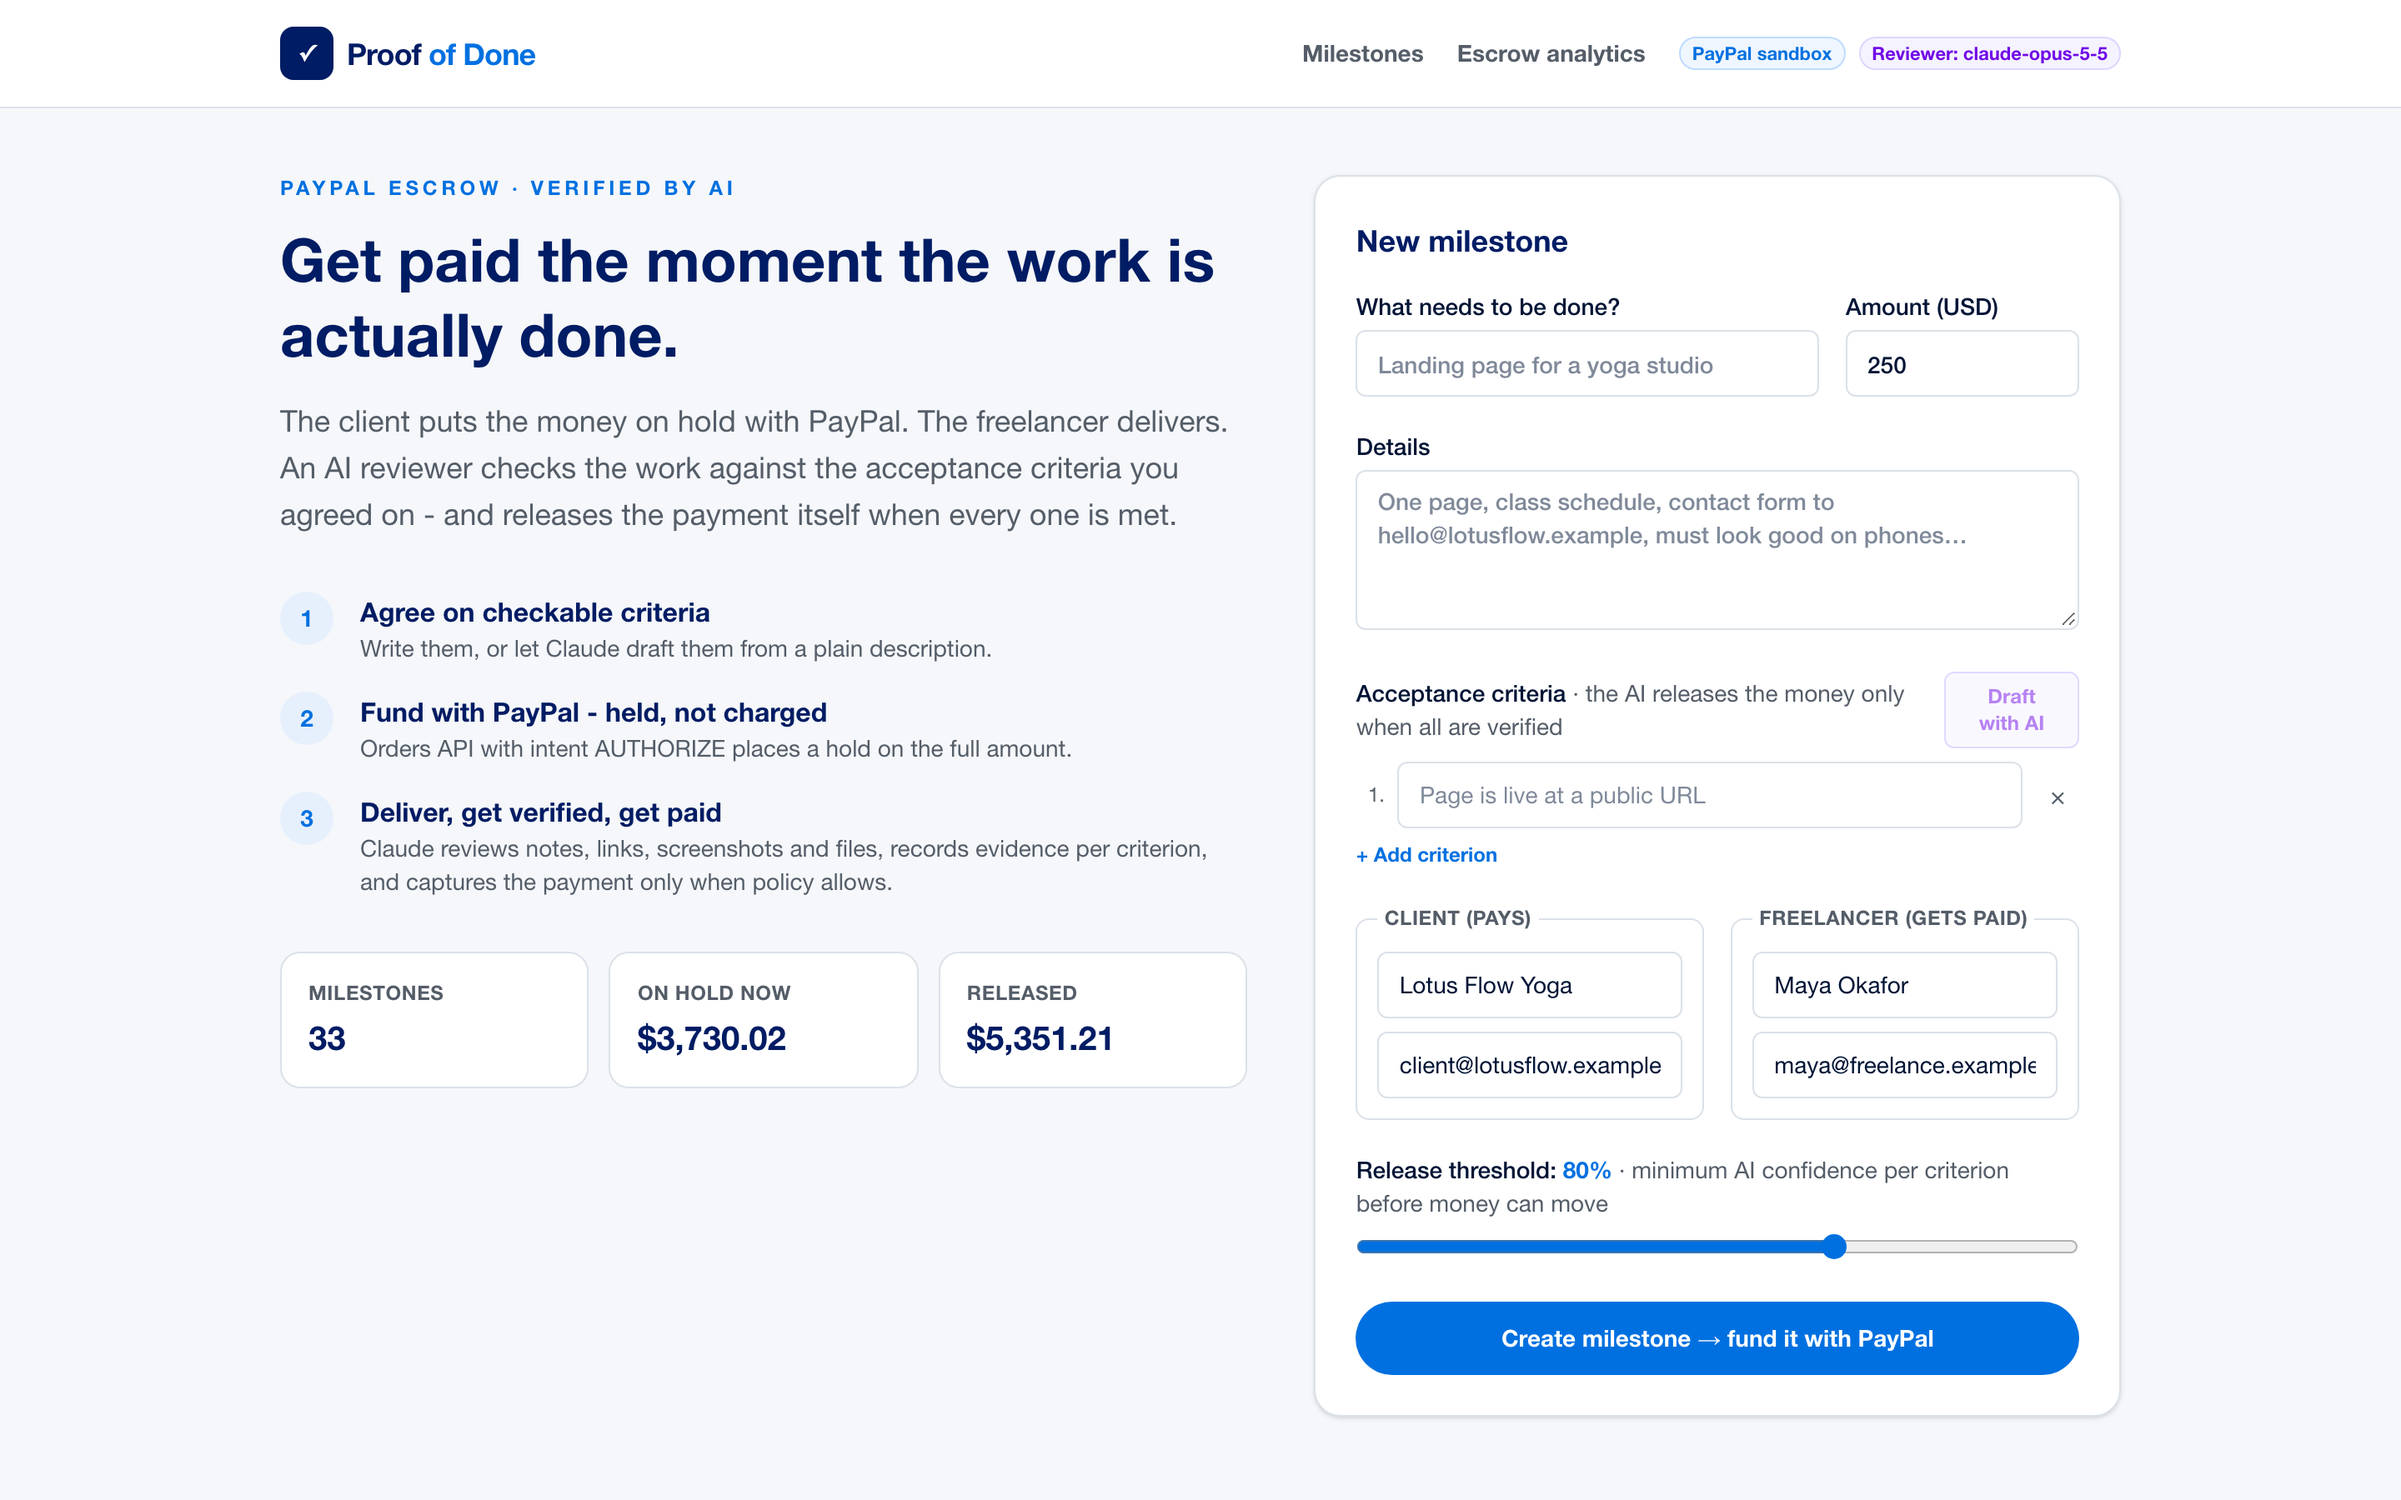
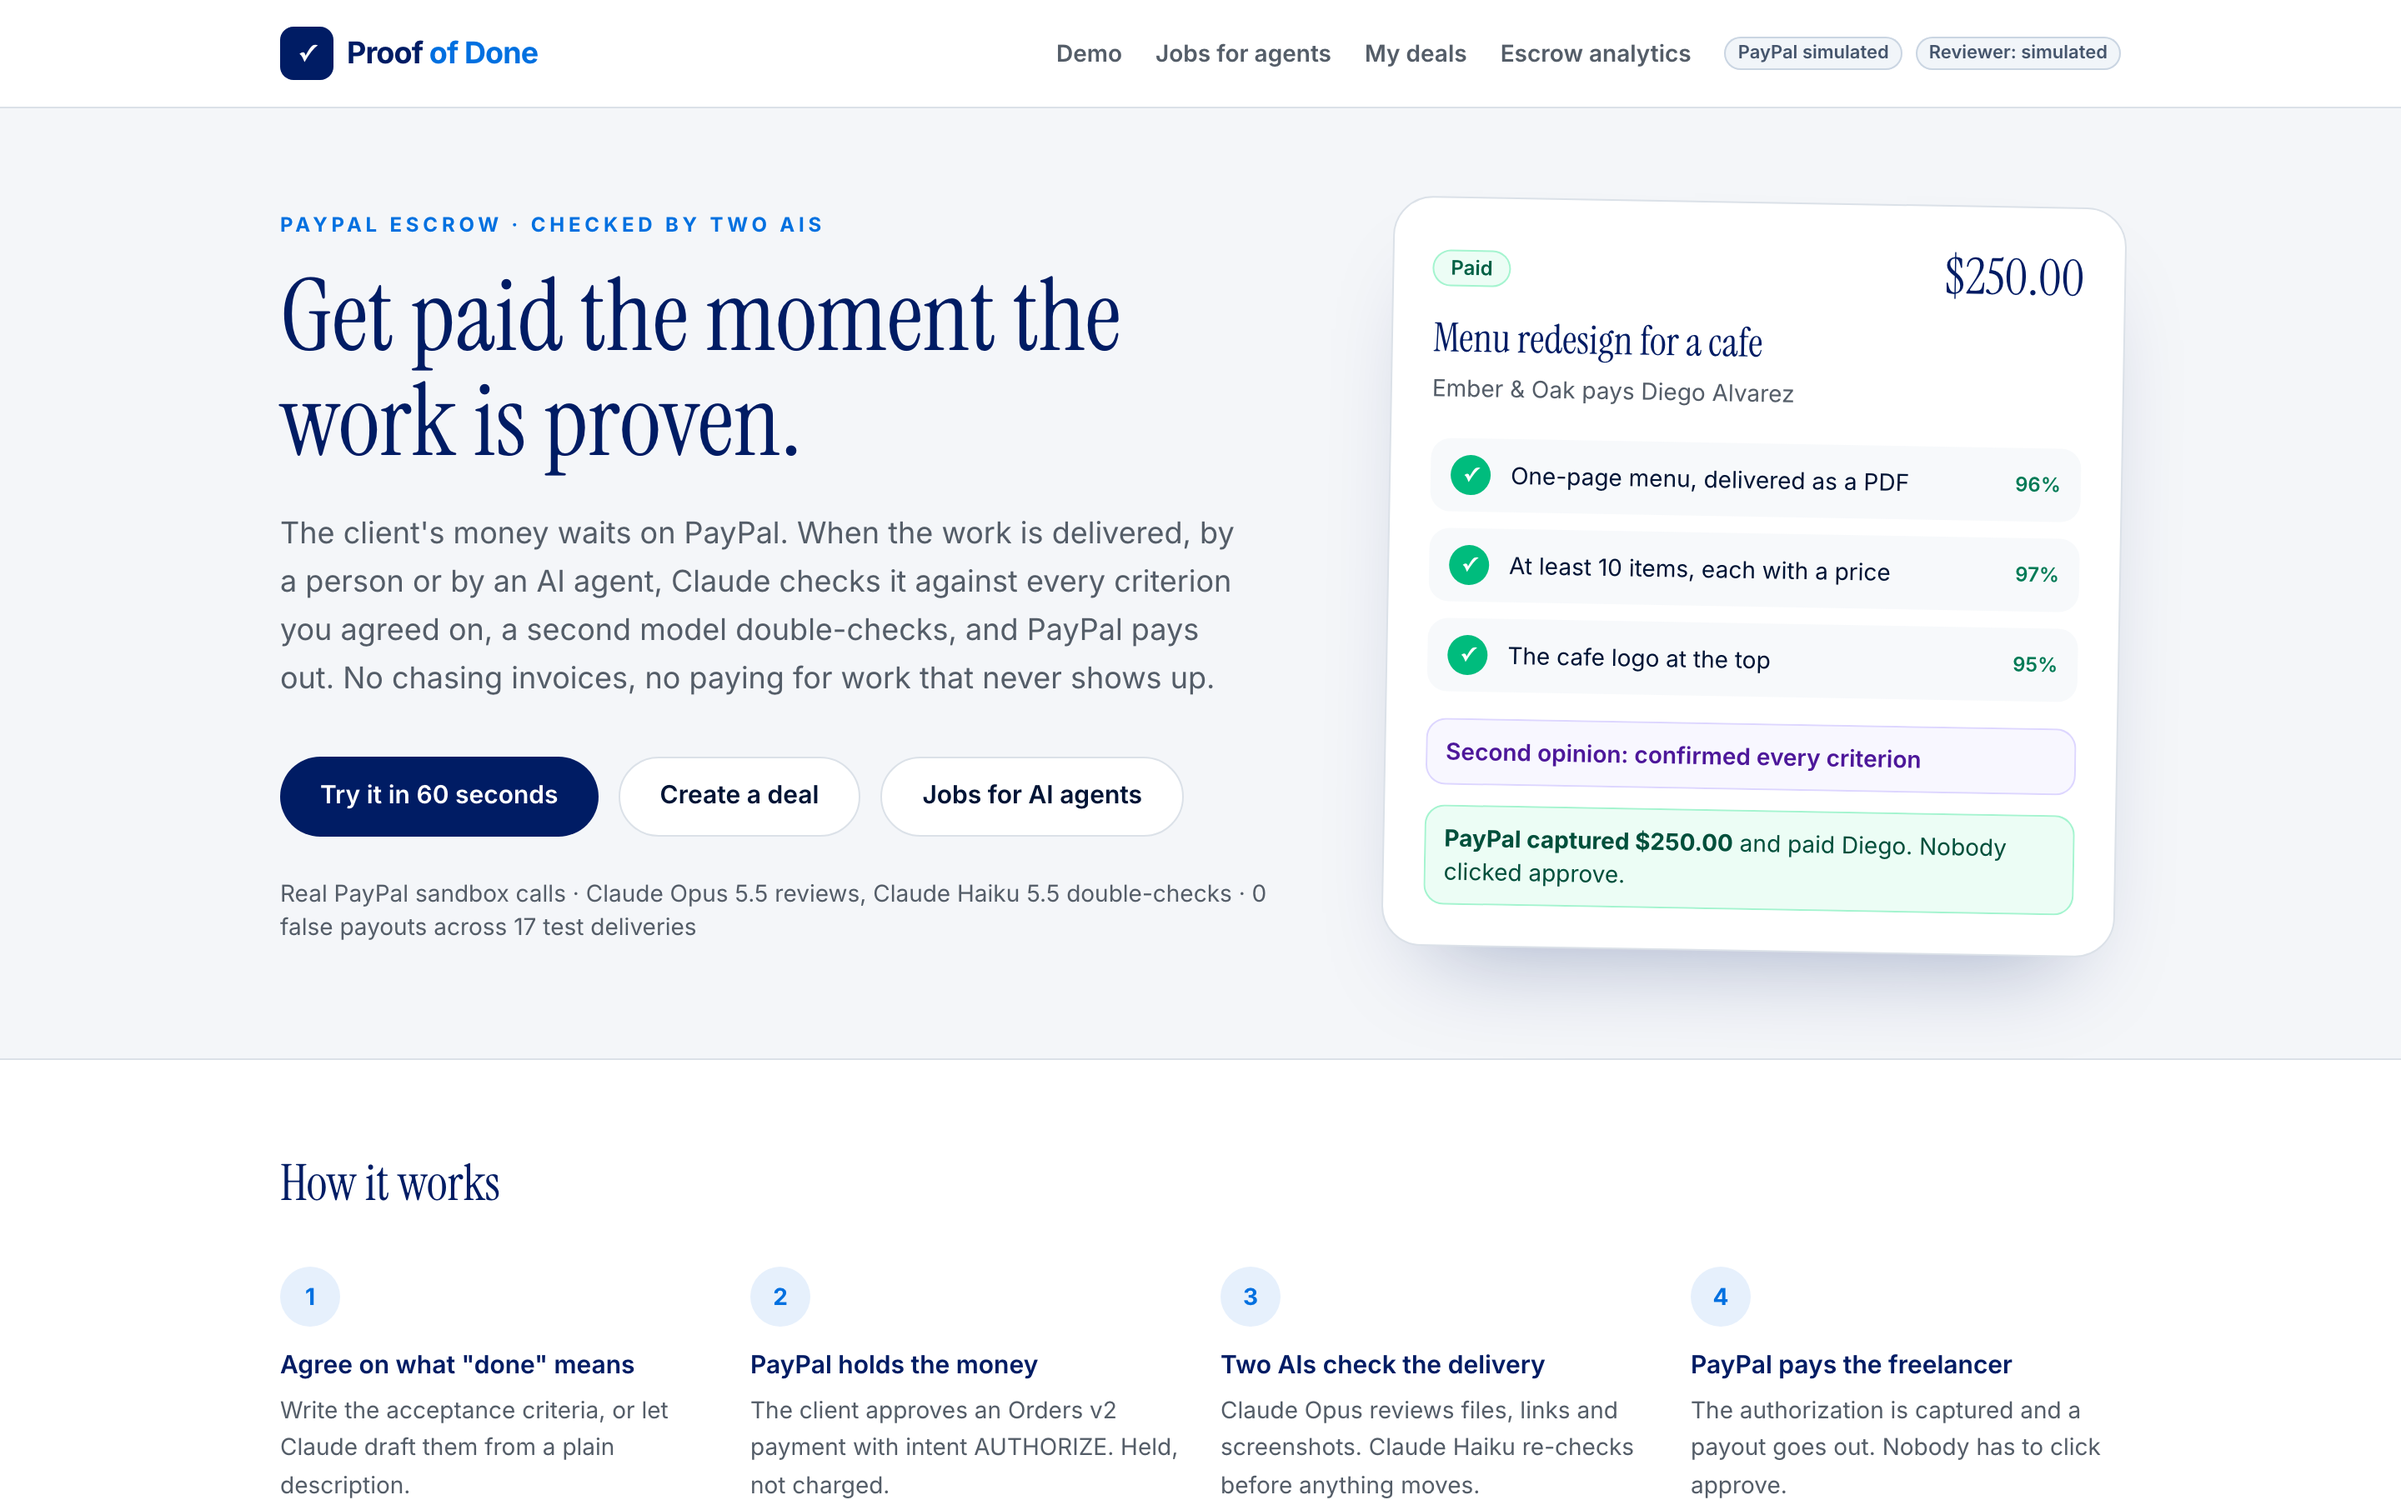
New screenshots of every main page, and the script that takes them; a vetoed release says so
The client's and freelancer's next-step texts now say when the second model refused the release,
instead of "the reviewer couldn't verify everything".

diff --git a/app/m/[id]/actions.tsx b/app/m/[id]/actions.tsx
@@ -93,7 +93,13 @@ export function NextStep({
         'border-teal-200',
       );
     }
-    return box(`${m.client.name} decides`, `The reviewer couldn't verify everything on its own, so ${m.client.name} makes the call. The money stays on hold.`);
+    const vetoed = m.reviews.at(-1)?.audit?.agreed === false;
+    return box(
+      `${m.client.name} decides`,
+      vetoed
+        ? `The second model refused to confirm the release, so ${m.client.name} makes the call. The money stays on hold.`
+        : `The reviewer couldn't verify everything on its own, so ${m.client.name} makes the call. The money stays on hold.`,
+    );
   }
   return <ClientDecision m={m} milestoneKey={milestoneKey} onChange={onChange} />;
 }
@@ -305,6 +311,7 @@ function ClientDecision({ m, milestoneKey, onChange }: { m: Milestone; milestone
   // Escalated because the freelancer is on probation, after the latest delivery.
   const lastSubmitted = m.submissions.at(-1)?.at ?? '';
   const probation = m.timeline.findLast((e) => e.type === 'probation' && e.at >= lastSubmitted);
+  const vetoed = m.reviews.at(-1)?.audit?.agreed === false;
   const title = verified ? 'Your objection window' : m.status === 'escalated' ? 'The AI wants your call' : m.status === 'changes_requested' ? 'Waiting for a fix' : onBoard ? 'Waiting for someone to take it' : `Waiting for ${m.freelancer.name}`;
   return (
     <section className={`${card} ${m.status === 'escalated' ? 'border-orange-300' : verified ? 'border-teal-300' : ''}`}>
@@ -317,6 +324,8 @@ function ClientDecision({ m, milestoneKey, onChange }: { m: Milestone; milestone
           </>
         ) : m.status === 'escalated' && probation ? (
           `${probation.text}. The AI verified every criterion; read the verdict, then decide.`
+        ) : m.status === 'escalated' && vetoed ? (
+          'The reviewer was ready to pay, but the second model refused to confirm it. Read why in the verdict, then decide.'
         ) : m.status === 'escalated' ? (
           'The reviewer couldn’t verify everything on its own. Read its notes in the verdict, then decide.'
         ) : m.status === 'changes_requested' ? (

diff --git a/README.md b/README.md
@@ -19,7 +19,13 @@ We played the challenge ourselves first, with Haiku 5.5 as the reviewer: ten tri
 - **Agents as freelancers and as customers:** an [open job board](#ai-agents-as-freelancers-mcp) of funded jobs that any agent can find, take, do and get paid for through MCP (hosted at `/api/mcp`, or local over stdio), with the same checks a person gets. An agent can also post a job; a human approves the payment in PayPal.
 - **Proof it holds up:** 88 tests, a [threat model](SECURITY.md) with a test for every defence, and an [evaluation](#evaluation) with zero false payouts.
 
-![Milestone page: PayPal hold, AI verdicts per criterion, audit log](docs/screenshots/milestone.png)
+![A deal where the freelancer's notes told the reviewer to skip the checks: Claude Opus found every criterion met, the second opinion refused, and the money waits for the client](docs/screenshots/deal-cheater.png)
+
+| | |
+|---|---|
+| ![Home page](docs/screenshots/home.png) | ![Honest work paid: every criterion met, second opinion confirmed, PayPal captured and paid out](docs/screenshots/deal-paid.png) |
+| ![Open job board for AI agents, with track records](docs/screenshots/jobs.png) | ![Try it in 60 seconds, and the live "Try to fool it" challenge](docs/screenshots/demo.png) |
+| ![A project in stages: stage 2 starts after stage 1 is paid](docs/screenshots/project.png) | ![AG Studio: Trust & PayPal, every PayPal call and every veto](docs/screenshots/dashboard-trust.png) |
 
 ## Who it's for
 
